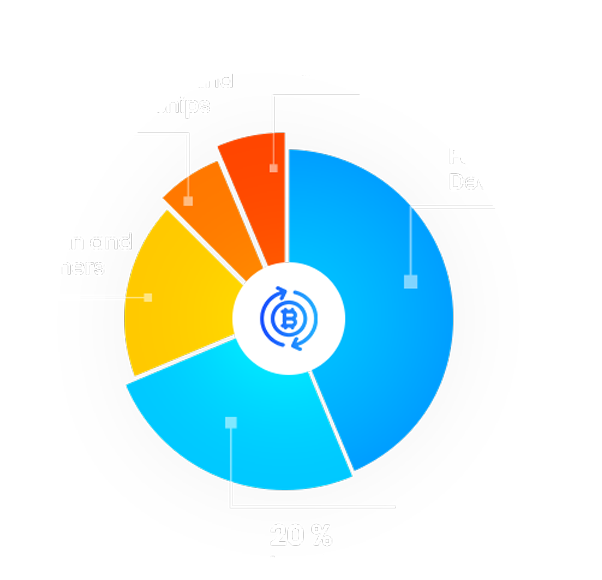
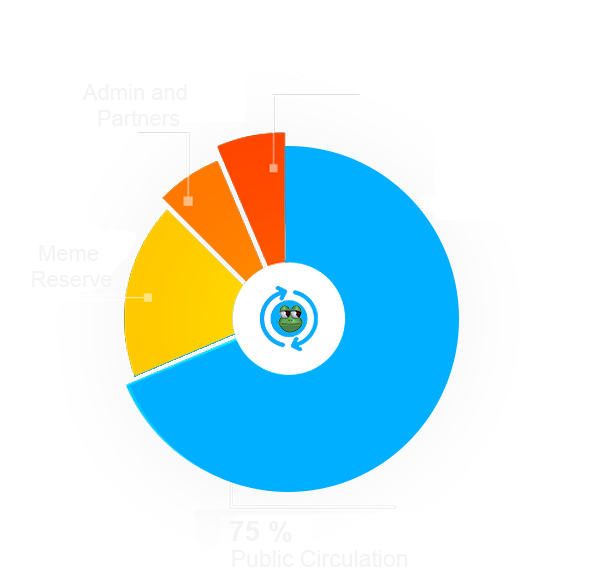
commit

diff --git a/src/MainPage/About.jsx b/src/MainPage/About.jsx
@@ -2,58 +2,28 @@ function About() {
   const tokenData = [
     {
       image: "t1.png",
-      label: "Token Name",
-      value: "Crypto Token",
+      label: "Meme Asset Reserve",
+      value: "Token Symbol $MARs",
     },
     {
       image: "t2.png",
-      label: "ICO Pre-sale starts in",
-      value: "June 15-30, 2025",
+      label: "Token Supply",
+      value: "1,000,000,000 LP Burned",
     },
     {
       image: "t3.png",
-      label: "Platform",
-      value: "Ethereum based",
+      label: "TAX 0%",
+      value: "Made On PUMP.FUN",
     },
     {
       image: "t4.png",
       label: "PreICO price",
       value: "1 ETH = 2,682 Token",
     },
-    {
-      image: "t5.png",
-      label: "Price in ICO",
-      value: "1 ETH = 2,182 Token",
-    },
-    {
-      image: "t6.png",
-      label: "Token Soft cap",
-      value: "$18,000,000",
-    },
-    {
-      image: "t7.png",
-      label: "Token Hard Cap",
-      value: "$78,000,000",
-    },
-    {
-      image: "t8.png",
-      label: "Total Supply",
-      value: "250,000,000 Token",
-    },
-    {
-      image: "t9.png",
-      label: "Sold Tokens",
-      value: "49,828,000 Token",
-    },
-    {
-      image: "t8.png",
-      label: "Remaining Tokens",
-      value: "200,182,000 Token",
-    },
   ];
   return (
     <section
-      className=" relative py-28 bg-cover bg-center h-[1600px] md:h-[900px] flex flex-col lg:flex-row justify-center rounded-3xl"
+      className=" relative py-28 bg-cover bg-center h-[1600px] md:h-[950px] flex flex-col lg:flex-row justify-center rounded-3xl"
       style={{ backgroundImage: 'url("/banner-bg.jpg")' }}
     >
       <div className="absolute inset-0 bg-[#004d00] opacity-60"></div>
@@ -74,10 +44,14 @@ function About() {
           </h1>
 
           <p className="text-lg text-[#7d8180] font-semibold mb-4 text-center">
-            Lorem ipsum dolor sit amet, consectetur adipiscing elit. Duis at{" "}
-            <br />
-            dictum risus, non suscipit arcu. Quisque aliquam posuere
-            <br /> tortor, sit amet convallis nunc scelerisque in.
+            $MARs Info The world is shifting to digital reserves, and $MARs is
+            leading the way. <br />
+            Just like nations and corporations are embracing Bitcoin, $MARs
+            unites
+            <br /> the meme coin universe into a single, powerful token. Backed
+            by a <br />
+            treasury of top meme assets, $MARs is more than just <br />
+            currency—it’s a cultural revolution.
           </p>
         </div>
 
